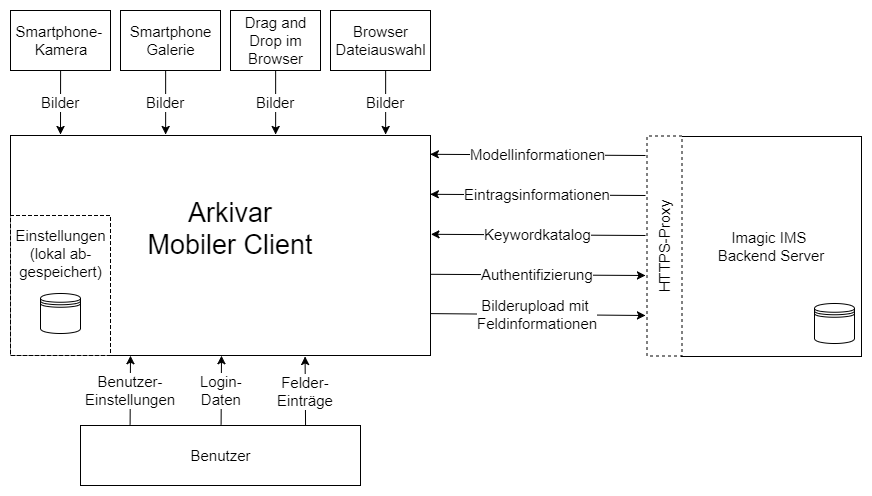
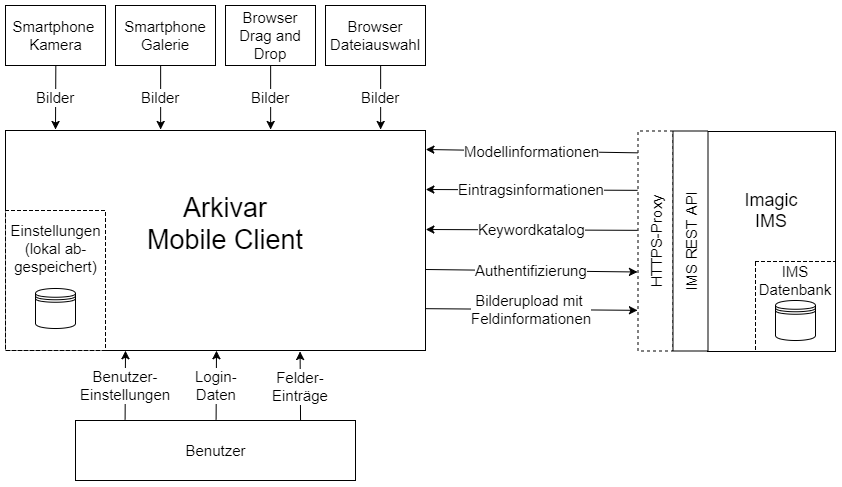
docs: rewrite text and do requested changes on diagram

diff --git a/docs/sad.md b/docs/sad.md
@@ -63,7 +63,7 @@ Damit das Projekt sauber strukturiert ist und sich neue Entwickler rasch zurecht
 
 ![Dataflow Diagramm](images/dataflow_diagram.png)
 
-Um nachvollziehen, welche Daten zum mobilen Client hin- und hergereicht werden, wurde ein Dataflow Diagram erstellt. Dabei ist gut ersichtlich, dass der Grossteil der Kommunikation zwischen dem Client und dem Backend Server läuft. 
+Ein Dataflow Diagramm bietet einen Überblick über die Richtung des  Datenflusses und zeigt auf, wo die Daten persistiert werden. Beim Arkivar Mobile Clients liefert der IMS Server alle Informationen, welche für den Aufbau der Navigationstruktur notwendig sind. Die Bilder können von verschiedenen Quellen eingelesen werden und mit Feldeinträgen vom User komplettiert werden. Beim Upload werden die Bilder mit den Feldinformationen vom Mobile Client an den IMS Server übertragen. 
 
 ## Technologie Stack
 
